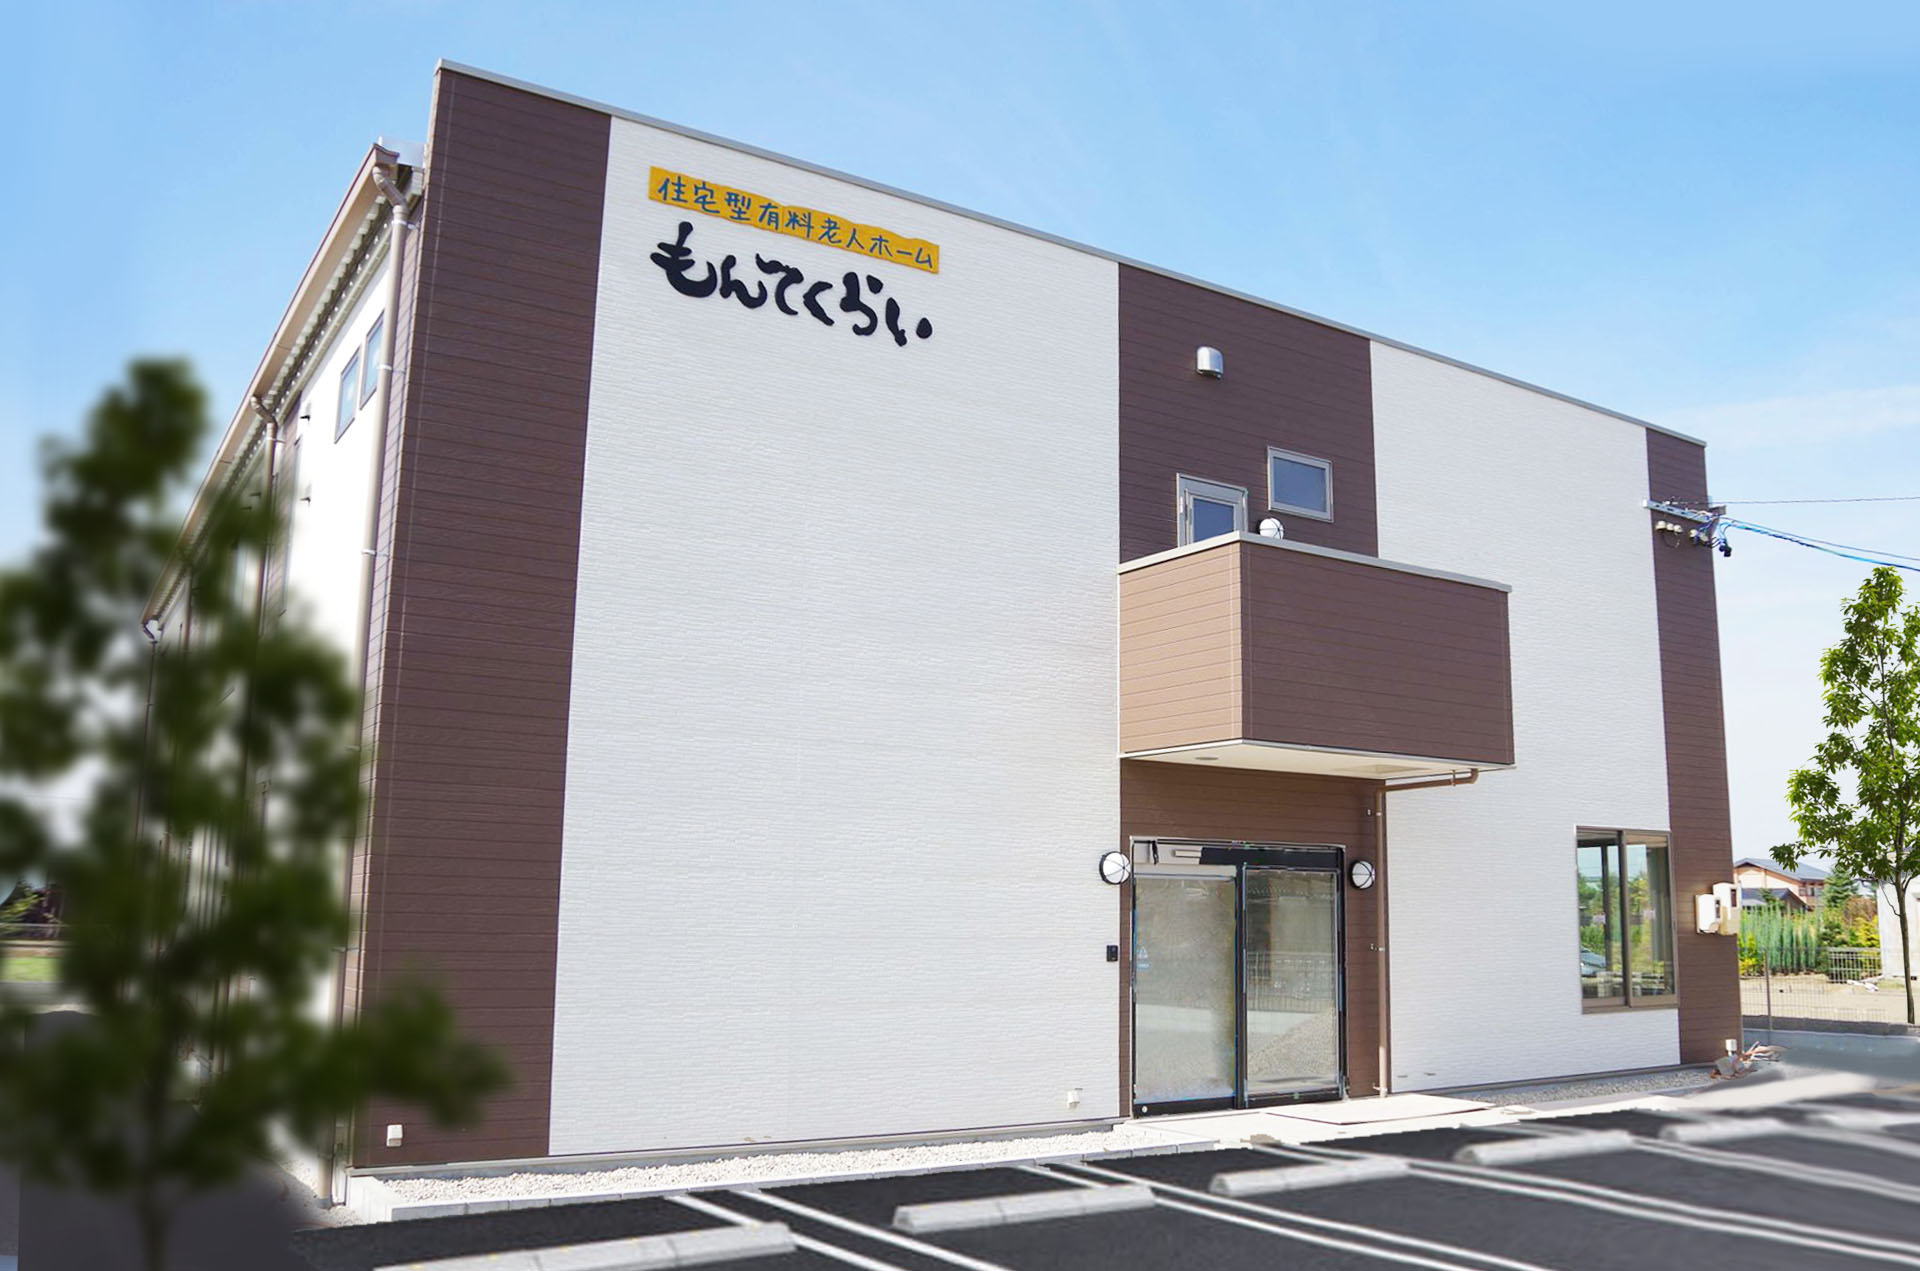
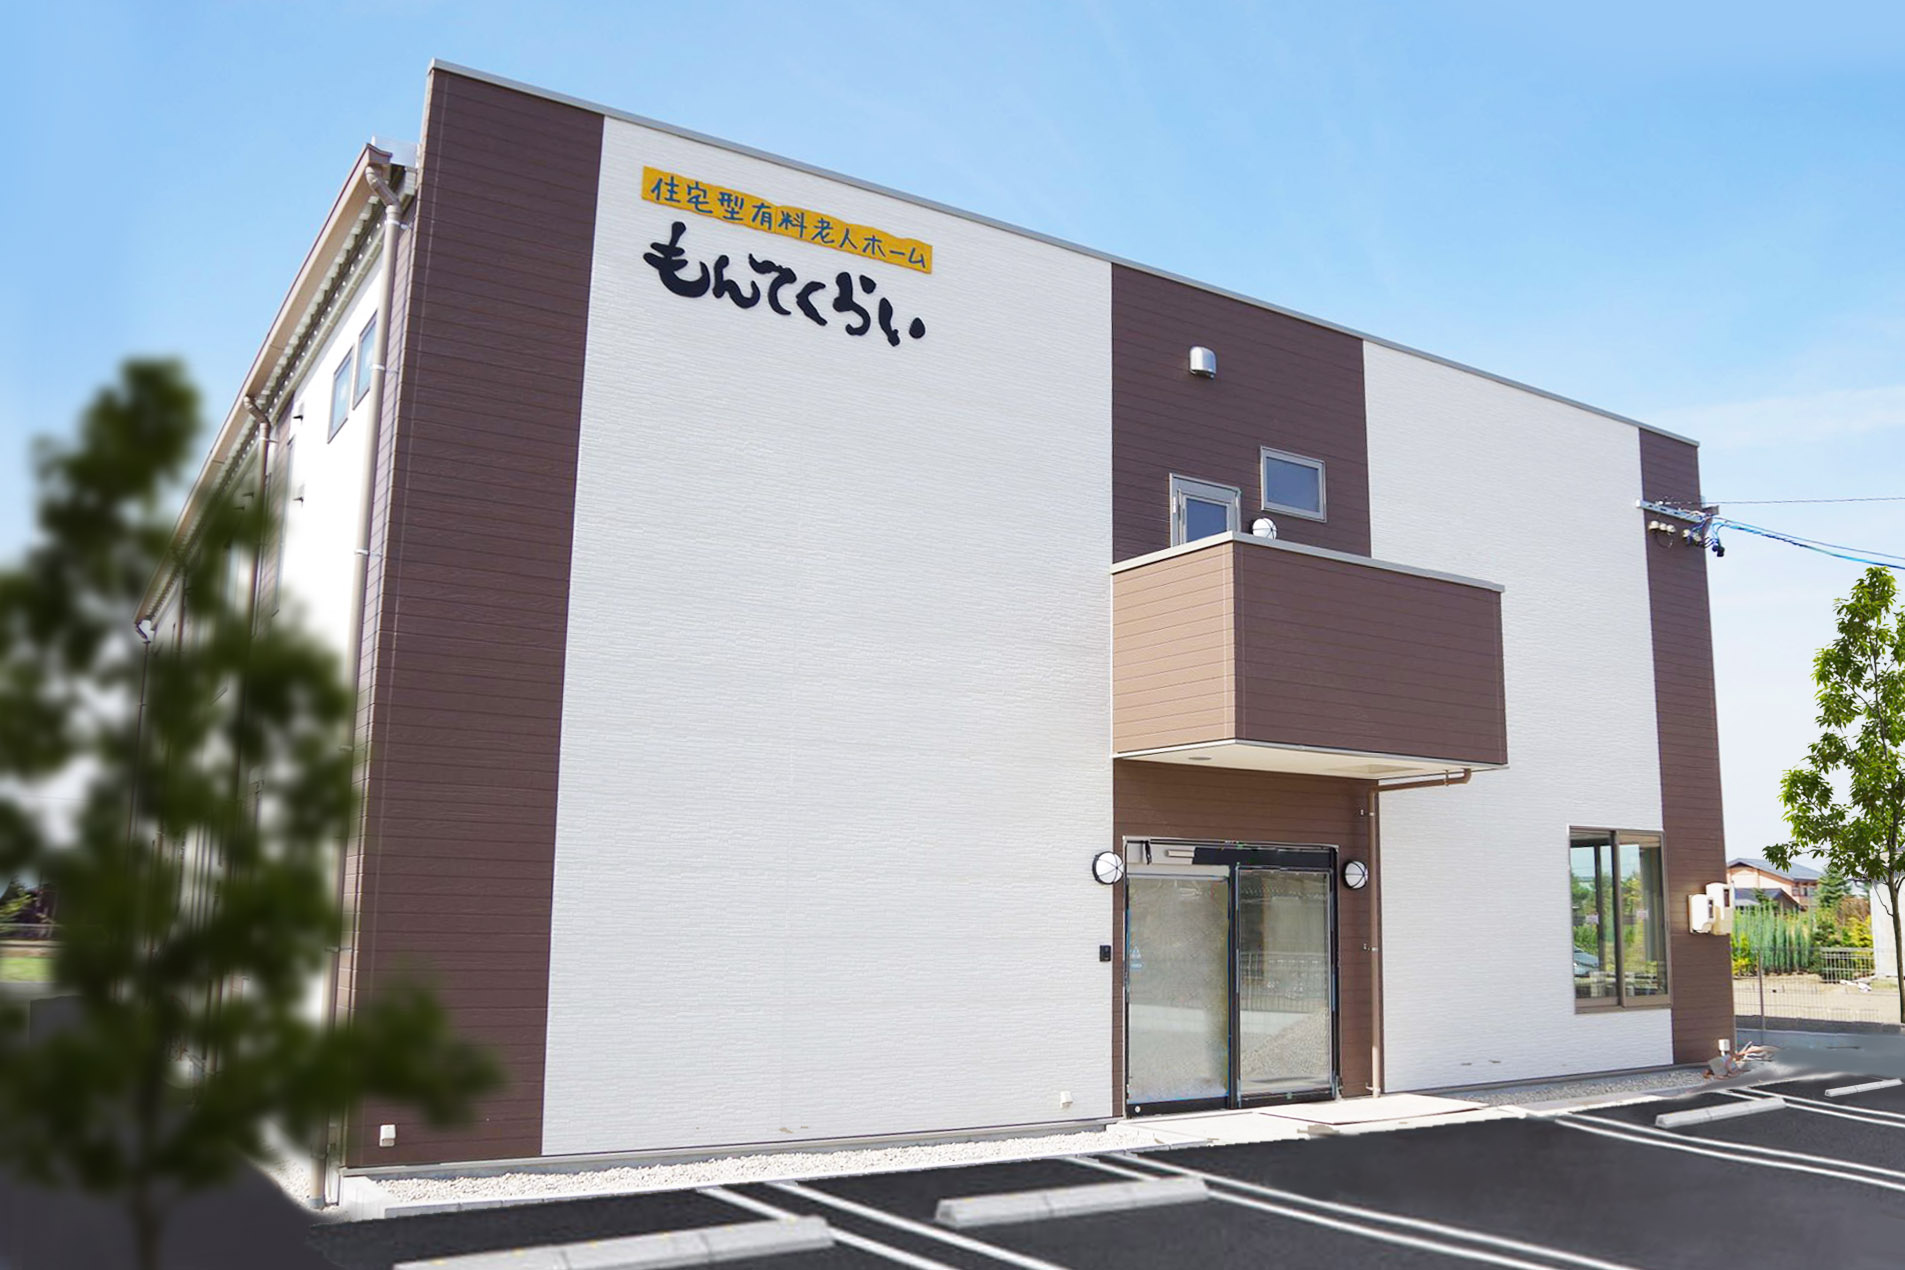
施設画像の修正

diff --git a/index.html b/index.html
@@ -192,12 +192,12 @@
         </dl>
         <div class="container">
           <img src="img/施設画像(外観)改.jpg" alt="外観" class="outline_img">
-          <img src="img/施設画像(洗面).jpg" alt="洗面台" class="outline_img">
-          <img src="img/施設画像(食堂).jpg" alt="食堂" class="outline_img">
-          <img src="img/施設画像(廊下).jpg" alt="廊下" class="outline_img">
-          <img src="img/施設画像(個室).jpg" alt="個室" class="outline_img">
-          <img src="img/施設画像(トイレ).jpg" alt="トイレ" class="outline_img">
           <img src="img/施設画像(食事)改.jpg" alt="食事" class="outline_img">
+          <img src="img/施設画像(洗面)改.jpg" alt="洗面台" class="outline_img">
+          <img src="img/施設画像(食堂)改.jpg" alt="食堂" class="outline_img">
+          <img src="img/施設画像(廊下)改.jpg" alt="廊下" class="outline_img">
+          <img src="img/施設画像(個室)改.jpg" alt="個室" class="outline_img">
+          <img src="img/施設画像(トイレ)改.jpg" alt="トイレ" class="outline_img">
         </div>
       </section>
       <section class="outline" id="outline">
@@ -347,7 +347,7 @@
             </dd>
           </dl>
           <dl>
-            <dt>午前<span>7</span>時<span>30</span>分</dt>
+            <dt><span>7</span>時<span>30</span>分</dt>
             <dd>
               <img src="img/花見(集合).jpg" alt="" class="event-img">
             </dd>
@@ -378,21 +378,21 @@
             </dd>
           </dl>
           <dl>
-            <dt><span>17</span>時<span>30</span></dt>
+            <dt><span>17</span>時<span>30</span>分</dt>
             <dd>
               <img src="img/22301884.png" alt="クリスマスツリー" class="event">
               <p>夕食</p>
             </dd>
           </dl>
           <dl>
-            <dt><span>18</span>時<span>30</span></dt>
+            <dt><span>18</span>時<span>30</span>分</dt>
             <dd>
               <img src="img/22301884.png" alt="クリスマスツリー" class="event">
               <p>口腔ケア</p>
             </dd>
           </dl>
           <dl>
-            <dt><span>19</span>時<span>30</span></dt>
+            <dt><span>19</span>時<span>30</span>分</dt>
             <dd>
               <img src="img/22301884.png" alt="クリスマスツリー" class="event">
               <p>フリータイム</p>
